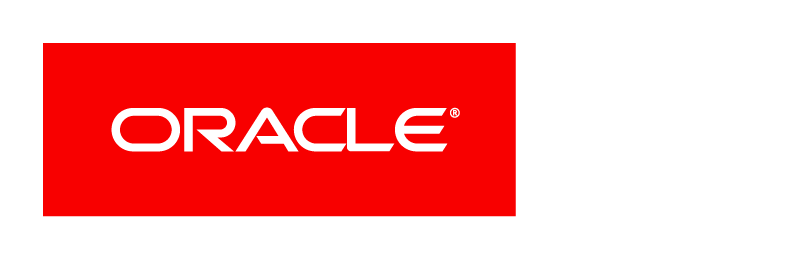
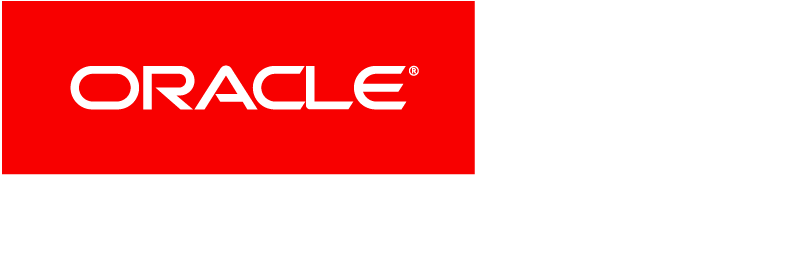
Demo changes

diff --git a/client/partials/main.html b/client/partials/main.html
@@ -54,48 +54,11 @@
 		             <small class="page-header">Partnership</small>
 		         </h1>
             </div>
-	            <div class="col-md-2 text-center">
+	            <div class="col-md-3 text-center">
 	                    <img class="img-responsive" src="img/O-Gold-Partner-clrrev.png" alt="">
 	            </div>
-	            <div class="col-md-2 text-center">
-	                <div class="thumbnail">
-	                    <img class="img-responsive" src="http://placehold.it/500x300" alt="">
-	                    <div class="caption">
-	                        <p>Partner details will come here</p>
-	                    </div>
-	                </div>
-	            </div>
-	            <div class="col-md-2 text-center">
-	                <div class="thumbnail">
-	                    <img class="img-responsive" src="http://placehold.it/500x300" alt="">
-	                    <div class="caption">
-	                        <p>Partner details will come here</p>
-	                    </div>
-	                </div>
-	            </div>
-	            <div class="col-md-2 text-center">
-	                <div class="thumbnail">
-	                    <img class="img-responsive" src="http://placehold.it/500x300" alt="">
-	                    <div class="caption">
-	                        <p>Partner details will come here</p>
-	                    </div>
-	                </div>
-	            </div>
-	            <div class="col-md-2 text-center">
-	                <div class="thumbnail">
-	                    <img class="img-responsive" src="http://placehold.it/500x300" alt="">
-	                    <div class="caption">
-	                        <p>Partner details will come here</p>
-	                    </div>
-	                </div>
-	            </div>
-	            <div class="col-md-2 text-center">
-	                <div class="thumbnail">
-	                    <img class="img-responsive" src="http://placehold.it/500x300" alt="">
-	                    <div class="caption">
-	                        <p>Partner details will come here</p>
-	                    </div>
-	                </div>
+	            <div class="col-md-3 text-center">
+	                    <img class="img-responsive" src="img/BP Colour Logo.jpg" alt="">
 	            </div>
         </div>
         <!-- /.row -->
